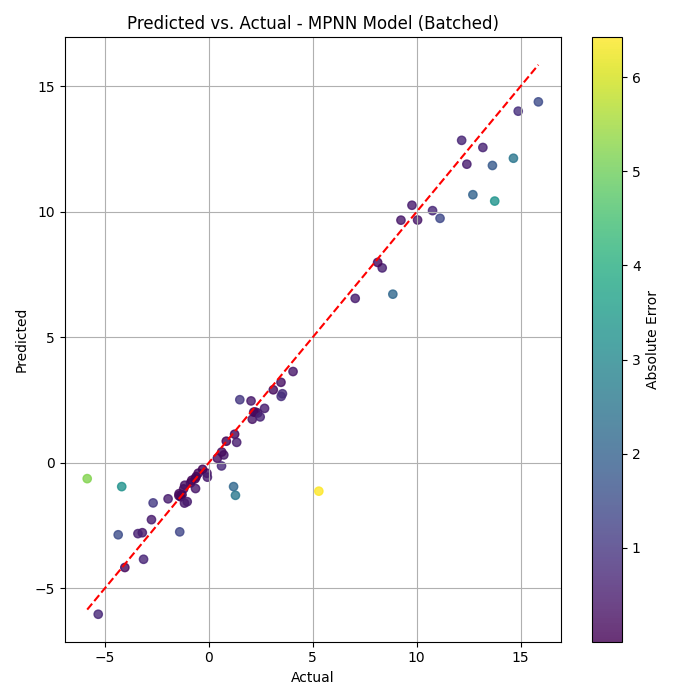
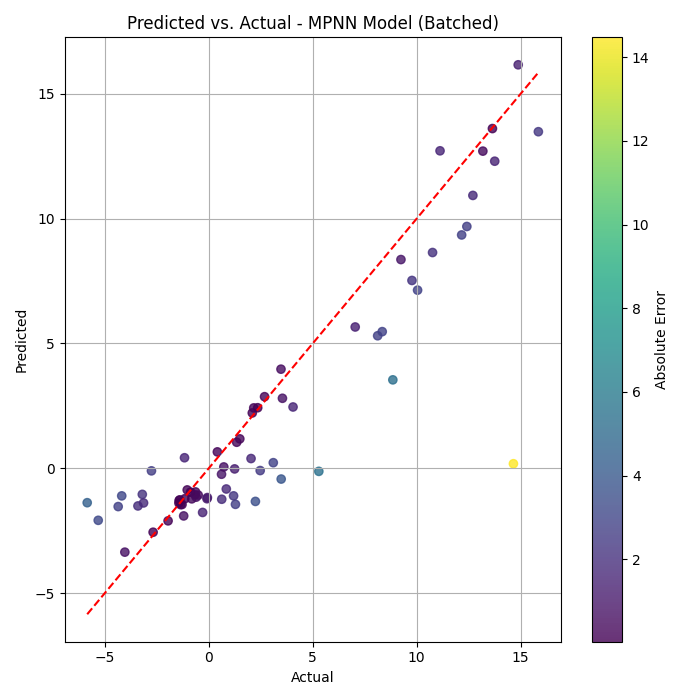
feat: change num of epochs

diff --git a/main.py b/main.py
@@ -46,5 +46,5 @@ train_loader = DataLoader(graphs, batch_size=16, shuffle=True)
 gcn_model = GCNModel(in_channels=num_node_features, hidden_dim=64, out_dim=1)
 mpnn_model = MPNNModel(in_channels=num_node_features, edge_dim=num_edge_features, hidden_dim=64, num_layers=3, out_dim=1)
 
-train_gcn_model_batched(train_loader, mpnn_model, lr=1e-3, epochs=500)
+train_gcn_model_batched(train_loader, mpnn_model, lr=1e-3, epochs=200)
 plot_predictions(train_loader, mpnn_model, "MPNN")
